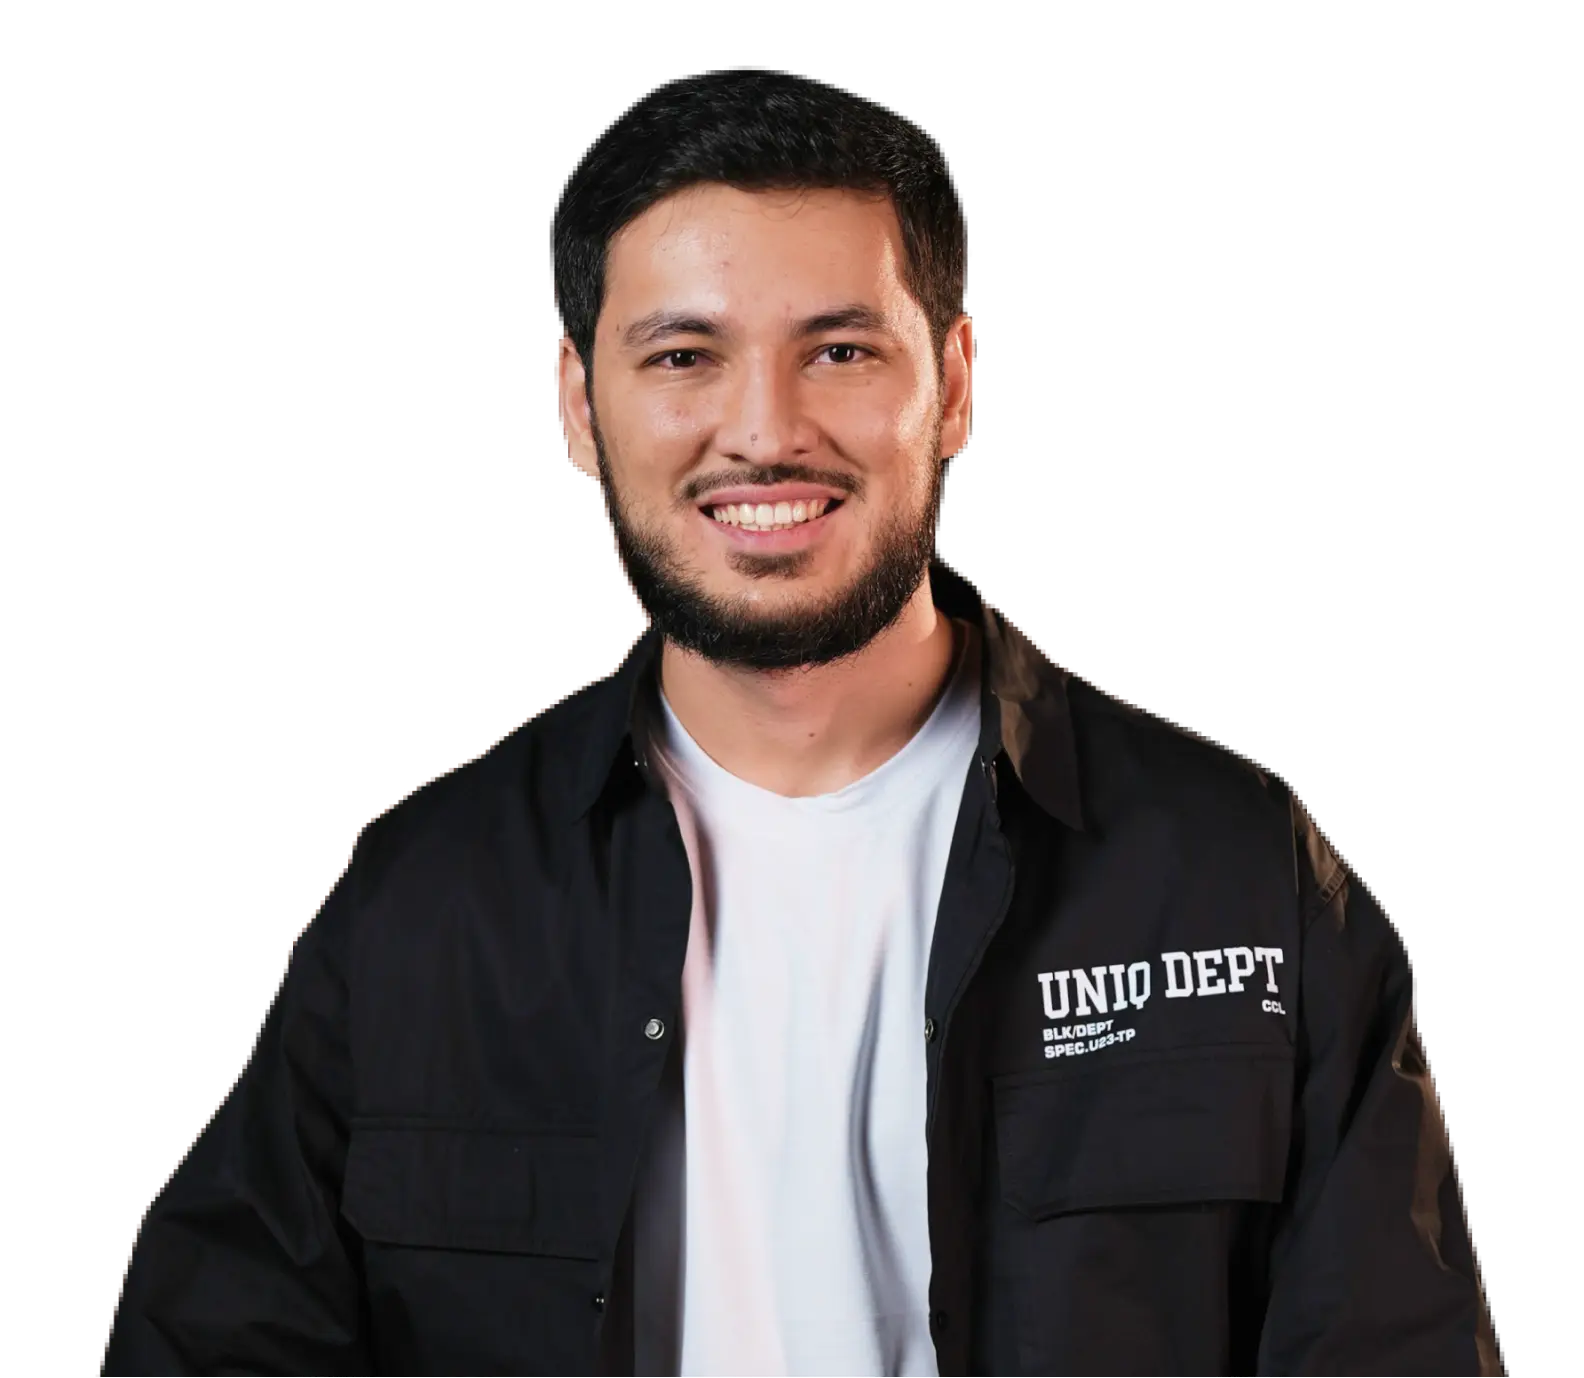
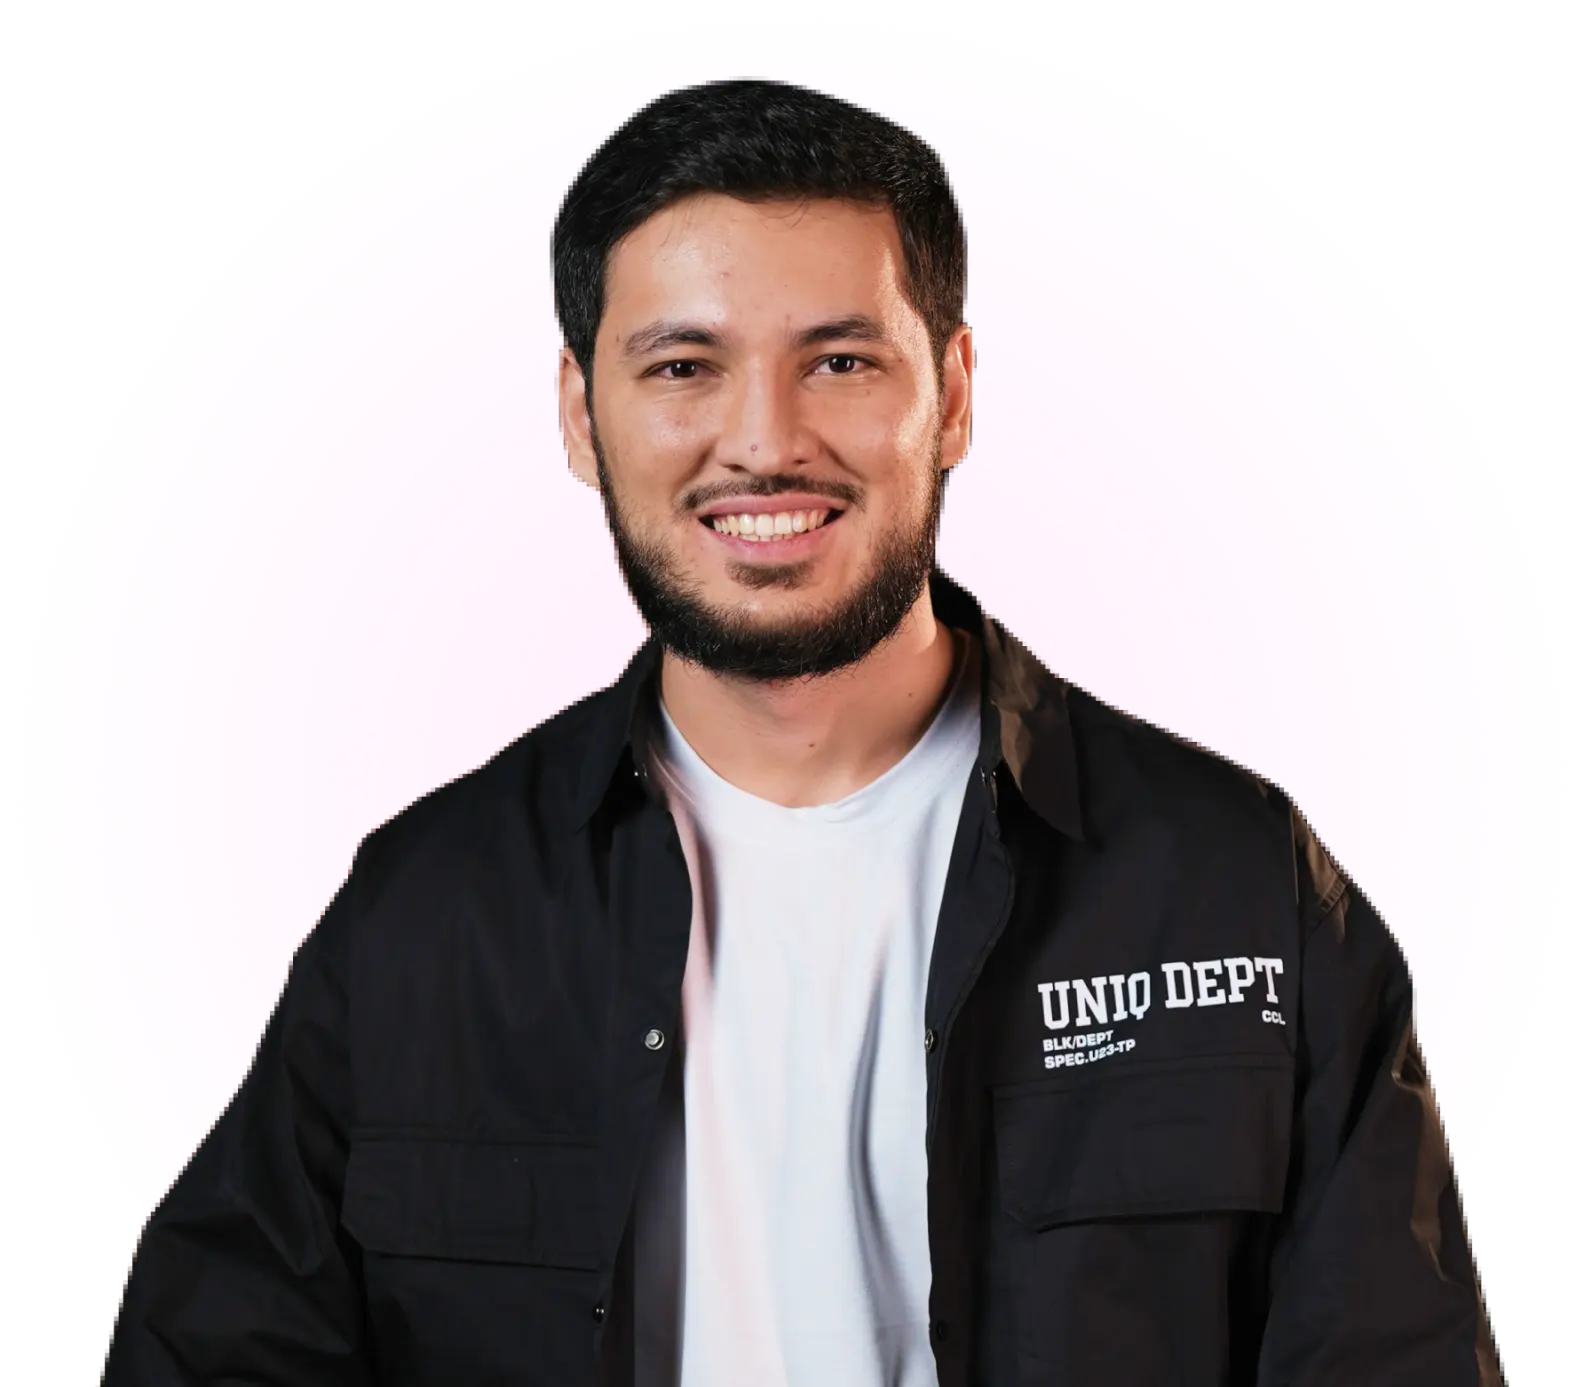
add mobile view

diff --git a/src/app/layouts/AppHeader/index.tsx b/src/app/layouts/AppHeader/index.tsx
@@ -12,7 +12,7 @@ const AppHeader: FC<Props> = () => {
     <div className={styles.header}>
       <AppNavbar />
       <div className={styles.image_container}>
-        <img src="/img/doniyor.png" alt="Doniyor Abduganiyev" />
+        <img src="/img/doniyor.webp" alt="Doniyor Abduganiyev" />
       </div>
       <div className={styles.container}>
         <div
@@ -34,7 +34,7 @@ const AppHeader: FC<Props> = () => {
           </div>
           <div className="relative">
             <img
-              src="/img/doniyor.png"
+              src="/img/doniyor.webp"
               alt="Doniyor Abduganiyev"
               className="lg:hidden block"
             />
